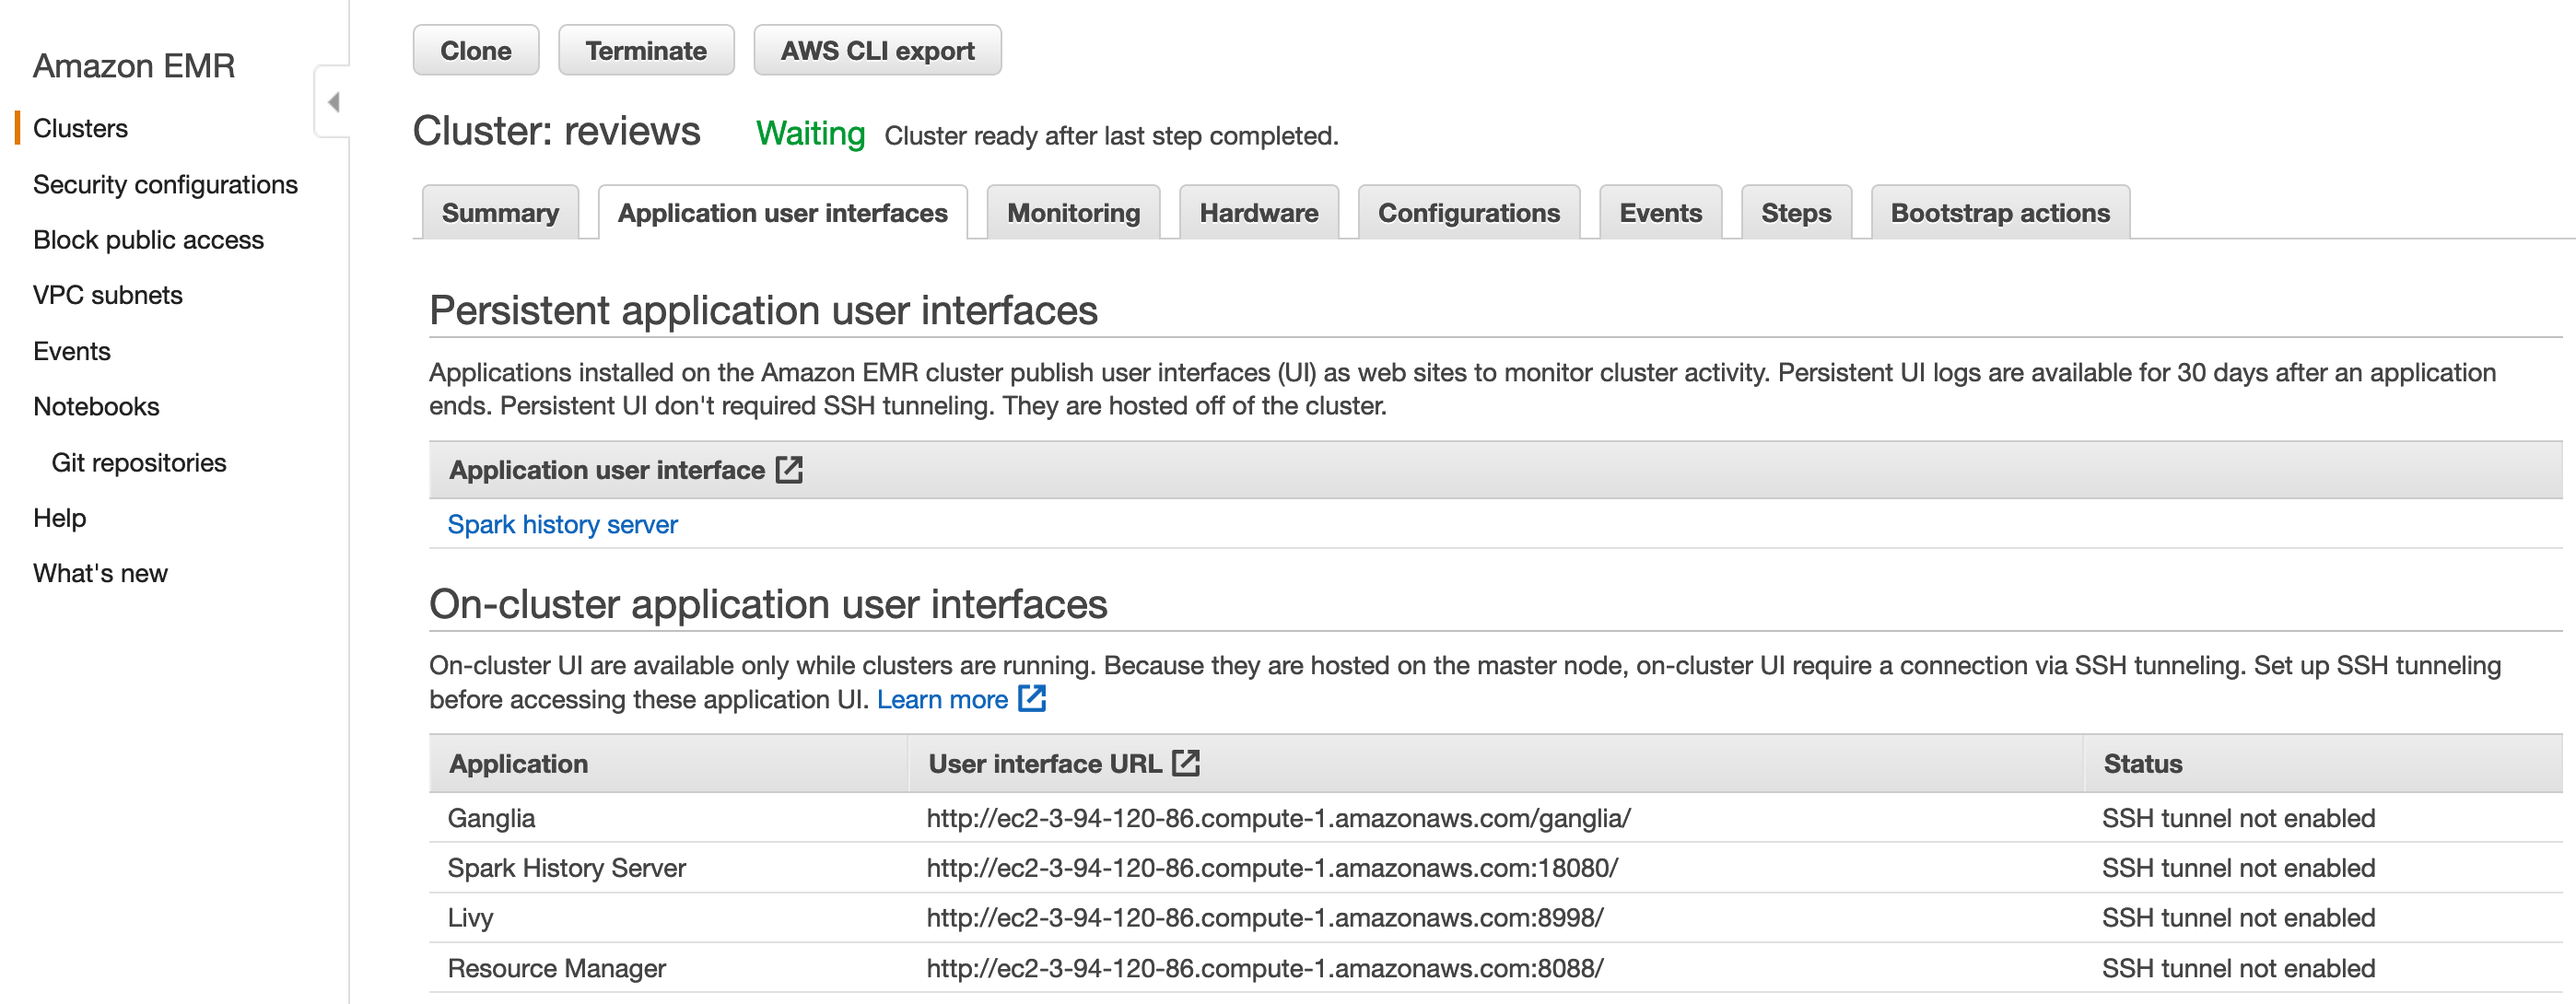
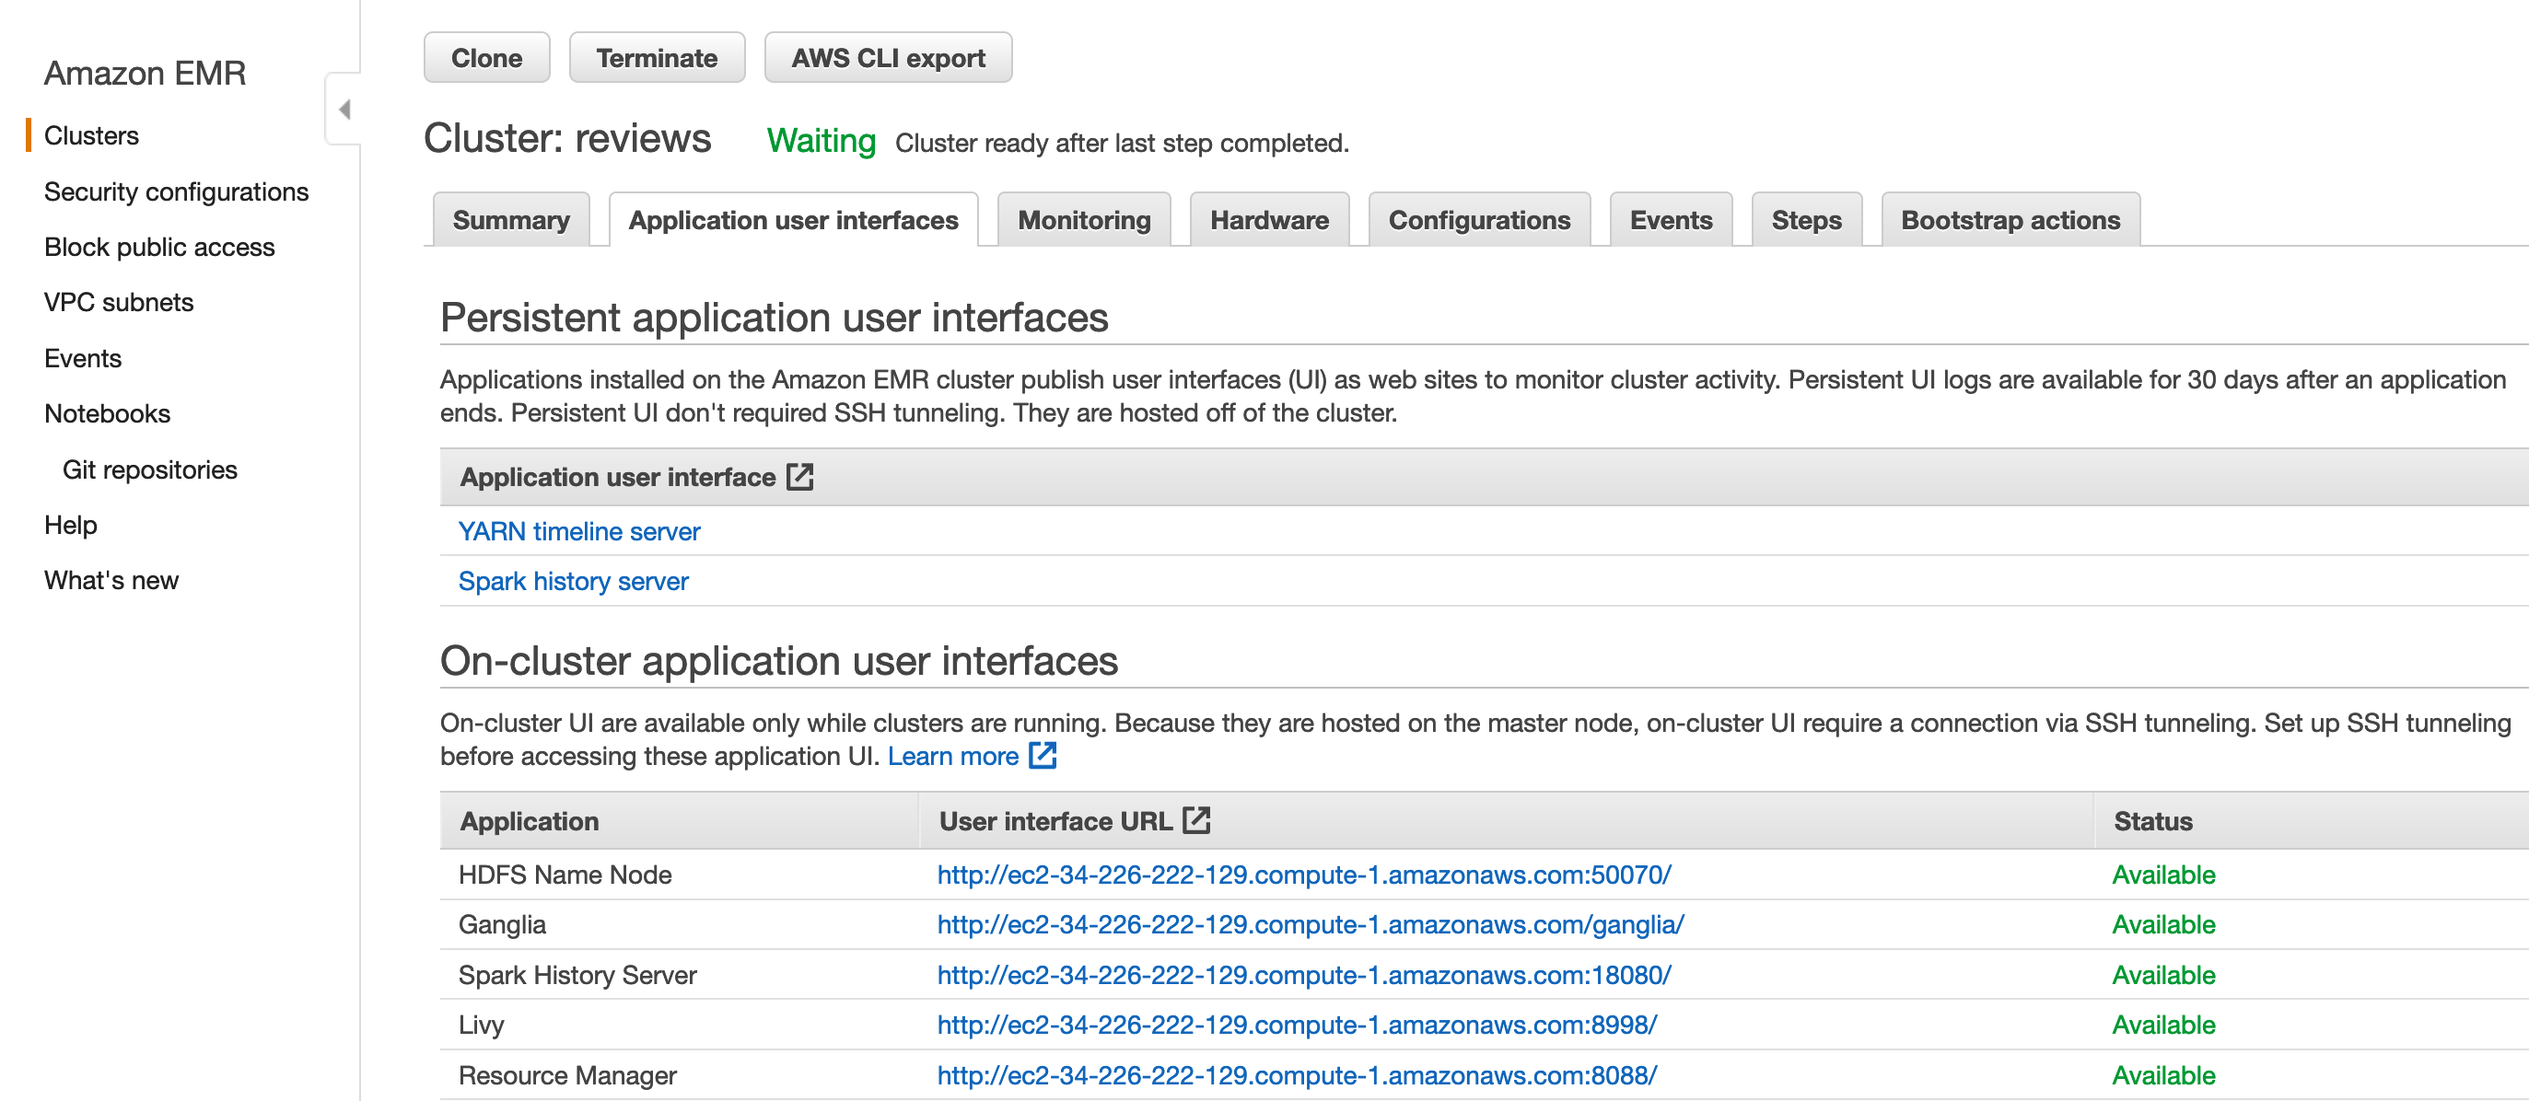
Added Athena processing and fine tune the EMR one

diff --git a/AWS learning material/data lake/05a_processing_emr.py b/AWS learning material/data lake/05a_processing_emr.py
@@ -1,0 +1,48 @@
+from pyspark.sql import SparkSession
+spark = SparkSession.builder.appName('reviews-transform').enableHiveSupport().getOrCreate()
+
+
+# variables
+s3_bucket='s3://data.set.corvus'  # change to your bucket name; without trailing slash
+output_path=f'{s3_bucket}/reviews/us'
+
+
+# functions
+def run_query(query, show=True):
+    """
+    Custom function to run spark.sql. Default will submit the query and show the result.
+    """
+    if show:
+        return spark.sql(query).show()
+    else:
+        return spark.sql(query)
+
+
+# US marketplace only to avoid non-US character
+df = run_query('''
+SELECT
+  marketplace, 
+  customer_id, 
+  review_id, 
+  product_id, 
+  product_parent, 
+  product_title, 
+  product_category,
+  CAST(star_rating as INT) star_rating, 
+  CAST(helpful_votes as INT) helpful_votes, 
+  CAST(total_votes as INT) total_votes, 
+  vine, 
+  verified_purchase, 
+  review_headline, 
+  review_body, 
+  CAST(review_date as DATE) review_date
+FROM reviews.tsv
+WHERE marketplace='US'
+''', show=False)
+
+# Sink
+df.repartition('product_category')\
+    .write.mode("OVERWRITE")\
+    .option("maxRecordsPerFile", 1000000)\
+    .partitionBy('product_category')\
+    .parquet(output_path, compression='gzip')

diff --git a/AWS learning material/data lake/05c_processing_athena.md b/AWS learning material/data lake/05c_processing_athena.md
@@ -1,0 +1,42 @@
+As the data to process is not big (32GB gzipped TSV), we can utilize Amazon Athena to perform simple transformation using CTAS and INSERT INTO - [doc](https://docs.aws.amazon.com/athena/latest/ug/ctas-insert-into-etl.html)
+
+> Amazon Athena is priced on **compressed** data scanned - [link](https://aws.amazon.com/athena/pricing/?nc=sn&loc=3)
+
+![processing with Athena](images/05c_processing.png)
+
+1. Open the [Amazon Athena Console](https://console.aws.amazon.com/athena/home)
+2. Select `reviews` from the database list
+3. Paste the following SQL into the **query editor**, and modify the `external_location`
+
+```sql
+CREATE TABLE reviews.parquet_athena 
+WITH ( 
+    format = 'Parquet',
+    parquet_compression = 'SNAPPY',
+    partitioned_by=array['product_category'],
+    external_location = 's3://data.set.yourname/reviews-athena/us/'
+)
+AS
+SELECT
+  marketplace, 
+  customer_id, 
+  review_id, 
+  product_id, 
+  product_parent, 
+  product_title, 
+  CAST(star_rating as INTEGER) star_rating, 
+  CAST(helpful_votes as INTEGER) helpful_votes, 
+  CAST(total_votes as INTEGER) total_votes, 
+  vine, 
+  verified_purchase, 
+  review_headline, 
+  review_body, 
+  CAST(review_date as DATE) review_date,
+  product_category
+FROM reviews.tsv
+WHERE marketplace='US';
+```
+
+>  Run time: 4 minutes 17 seconds, Data scanned: 32.25 GB
+
+4. You can skip session 6 as Amazon Athena will automatically create the table metadata in the Glue data catalogue

diff --git a/AWS learning material/data lake/05a_processing_emr.md b/AWS learning material/data lake/05a_processing_emr.md
@@ -22,7 +22,7 @@ In this task you will
 1. Open the [Amazon EMR Console](https://console.aws.amazon.com/elasticmapreduce/home?)
 2. Click **Create cluster**
 3. Click **Go to advanced options**
-4. Select the latest (stable) EMR release
+4. Select the default EMR release
    * Checkbox: *Hadoop, Ganglia, Spark, Livy*
 5. Use Glue Data Catalog for Spark table metadata: *yes*
 6. Edit the software settings with the following:
@@ -42,12 +42,13 @@ In this task you will
 
 ## Hardware configuration
 
-1. Accept the defaults, and we will have a cluster made of m5.xlarge instances
-2. Enable **cluster scaling** (EMR-managed, 2-10 nodes)
-3. Click **Next**
-   ![EMR scaling](images/emr-scaling.png)
+1. Modify the cluster nodes and instances
+   * 1 master node (r5.xlarge)
+   * 10 core nodes (r5.xlarge)
+   * 0 task nodes
+2. Click **Next**
 
-> Notice the **spot instance** features for further cost optimization
+> Notice the **spot instance** and **cluster scaling** features for further cost optimization
 
 ## General options
 1. Cluster name: *reviews*
@@ -109,5 +110,5 @@ In this task you will
 # Author a data processing job
 
 1. From the notebook instance, open **Jupyter**
-2. Upload the notebook: [05a_Amazon Customer Reviews - processing.ipynb](05a_Amazon%20Customer%20Reviews%20-%20processing.ipynb)
+2. Upload the notebook: [05a_Amazon Customer Reviews - processing](05a_Amazon%20Customer%20Reviews%20-%20processing.ipynb)
 3. Follow the instructions within
